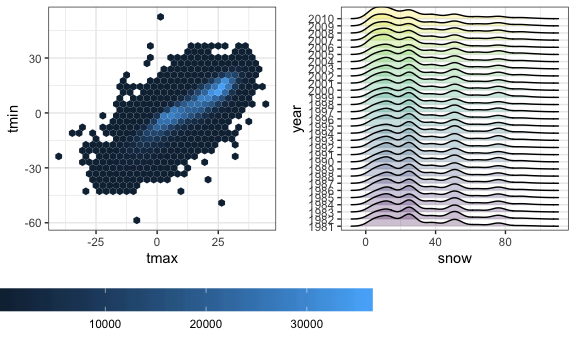
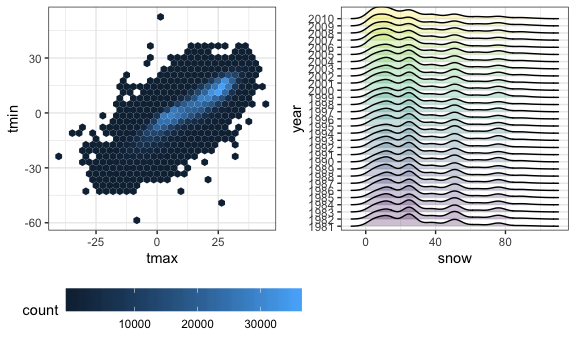
updated patchwork plot -- problem 3

Changed region(s): [[0.3125, 0.8116, 0.6562, 0.9565], [0.0, 0.8116, 0.1875, 0.9275], [0.1562, 0.9275, 0.2812, 0.9565]]

diff --git a/p8105_hw3_eas2297.md b/p8105_hw3_eas2297.md
@@ -393,7 +393,7 @@ Celsius in
 tmax_tmin_p = ny_noaa_clean %>% 
   ggplot(aes(x = tmax, y = tmin)) +
   geom_hex() +
-  theme(legend.key.width = unit(2,"cm"))
+  theme(legend.key.width = unit(1.25,"cm"))
 
 snowfall_p = ny_noaa_clean %>% 
   filter(snow > 0 & snow < 100) %>% 
